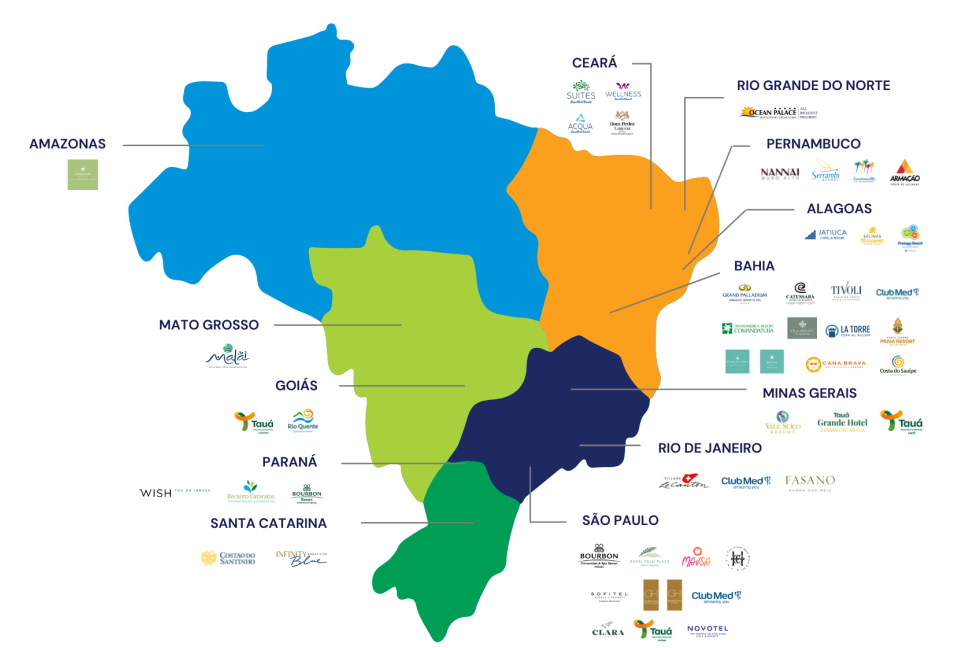
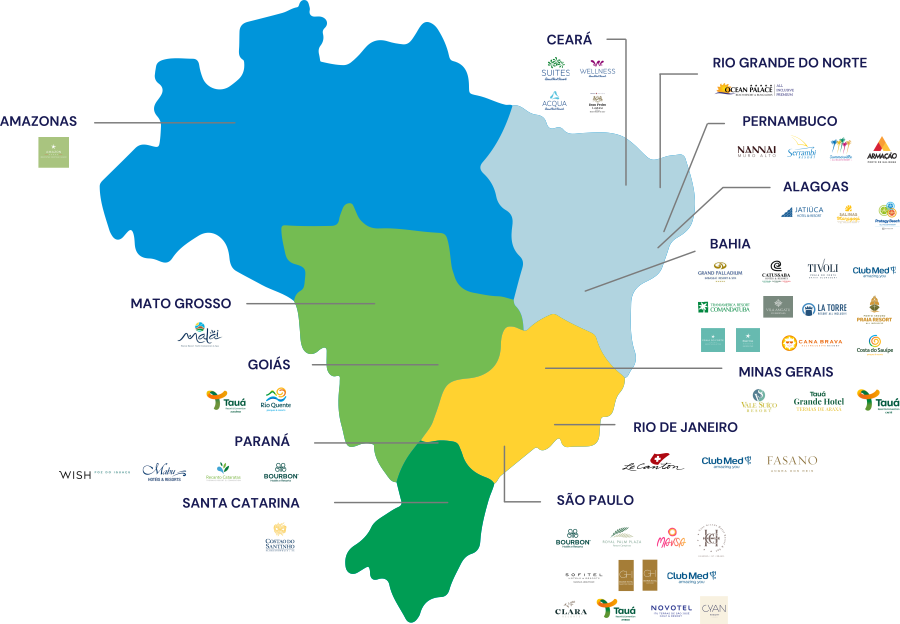
update 2022-08-09

diff --git a/estatisticas-e-estudos.html b/estatisticas-e-estudos.html
@@ -142,8 +142,66 @@
         </section>
         <!-- end: Título -->
 
-        <!-- Associados -->
-        <section id="associados" class="p-t-0">
+        <!-- Destaques -->
+        <section class="p-t-0">
+            <div class="container">
+                <div class="row">
+                    <!-- Índice de Competitividade de Resorts -->
+                    <div class="col-lg-3">
+                        <div class="card">
+                            <img class="card-img-top"
+                                src="images/estatisticas-e-estudos/indice-de-competitividade-de-resorts.jpg"
+                                alt="Capa do Índice de Competitividade de Resorts">
+                            <div class="card-body text-center">
+                                <h4 class="card-title m-b-10">Índice de Competitividade de Resorts</h4>
+                                <a href="#" class="btn btn-primary">Acessar</a>
+                            </div>
+                        </div>
+                    </div>
+                    <!-- end: Índice de Competitividade de Resorts -->
+                    <!-- Hotelaria em Números -->
+                    <div class="col-lg-3">
+                        <div class="card">
+                            <img class="card-img-top" src="images/estatisticas-e-estudos/hotelaria-em-numeros.jpg"
+                                alt="Capa de Hotelaria em Números">
+                            <div class="card-body text-center">
+                                <h4 class="card-title m-b-10">Hotelaria em Números</h4>
+                                <a href="#" class="btn btn-primary">Acessar</a>
+                            </div>
+                        </div>
+                    </div>
+                    <!-- end: Hotelaria em Números -->
+                    <!-- Radar Resorts Brasil -->
+                    <div class="col-lg-3">
+                        <div class="card">
+                            <img class="card-img-top" src="images/estatisticas-e-estudos/radar-resorts-brasil.jpg"
+                                alt="Capa do Radar Resorts Brasil">
+                            <div class="card-body text-center">
+                                <h4 class="card-title m-b-10">Radar Resorts Brasil</h4>
+                                <a href="#" class="btn btn-primary">Acessar</a>
+                            </div>
+                        </div>
+                    </div>
+                    <!-- end: Radar Resorts Brasil -->
+                    <!-- Resorts em Números -->
+                    <div class="col-lg-3">
+                        <div class="card">
+                            <img class="card-img-top" src="images/estatisticas-e-estudos/resorts-em-numeros.jpg"
+                                alt="Capa de Resorts em Números">
+                            <div class="card-body text-center">
+                                <h4 class="card-title m-b-10">Resorts em Números</h4>
+                                <a href="#" class="btn btn-primary">Acessar</a>
+                            </div>
+                        </div>
+                    </div>
+                    <!-- end: Resorts em Números -->
+                </div>
+            </div>
+        </section>
+        <!-- end: Destaques -->
+
+        <!-- Informacoes -->
+        <section id="informacoes" class="p-t-0">
             <div class="container">
                 <div class="row">
                     <div class="col-lg-10 center">
@@ -188,7 +246,6 @@
                                                 colaborar com o desenvolvimento estruturado do setor. O estudo é
                                                 desenvolvido em parceria com o Senac, JLL, STR e a
                                                 ReviewPro.</p>
-                                            <a href="#" class="item-link" target="_blank">Acessar o repositório &gt;</a>
                                         </div>
                                         <div class="tab-pane fade" id="indice" role="tabpanel"
                                             aria-labelledby="indice-tab">
@@ -199,7 +256,6 @@
                                                 avaliar diversos os empreendimentos em que se hospedaram. As
                                                 estatísticas são fornecidas pela ferramenta ReviewPro, que agrupa os
                                                 comentários de usuários feitos em quaisquer sites de avaliação.</p>
-                                            <a href="#" class="item-link" target="_blank">Acessar o repositório &gt;</a>
                                         </div>
                                         <div class="tab-pane fade" id="hotelaria" role="tabpanel"
                                             aria-labelledby="hotelaria-tab">
@@ -209,7 +265,6 @@
                                                 questionários preenchidos hotéis, resorts e flats brasileiros medindo o
                                                 desempenho do mercado hoteleiro ano a ano. A Resorts Brasil é parceira
                                                 desta iniciativa há mais de 10 anos.</p>
-                                            <a href="#" class="item-link" target="_blank">Acessar o repositório &gt;</a>
                                         </div>
                                         <div class="tab-pane fade" id="resorts" role="tabpanel"
                                             aria-labelledby="resorts-tab">
@@ -218,7 +273,6 @@
                                                 desenvolvido pela Resorts Brasil, em parceria com o Senac São Paulo, de
                                                 2012 a 2019. O informativo traz dados de desempenho dos resorts no
                                                 Brasil.</p>
-                                            <a href="#" class="item-link" target="_blank">Acessar o repositório &gt;</a>
                                         </div>
                                     </div>
                                 </div>
@@ -227,7 +281,7 @@
                     </div>
                 </div>
         </section>
-        <!-- end: Associados -->
+        <!-- end: Informacoes -->
 
         <!-- Stats -->
         <section id="stats" class="no-padding">

diff --git a/associados.html b/associados.html
@@ -279,6 +279,9 @@
                                             <li><a href="#" target="_blank">
                                                     <img src="images/associados/novotel-itu.png" alt=""></a>
                                             </li>
+                                            <li><a href="#" target="_blank">
+                                                    <img src="images/associados/cyan-resort.png" alt=""></a>
+                                            </li>
                                         </ul>
                                     </div>
                                 </div>
@@ -352,9 +355,6 @@
                                         <ul class="grid grid-6-columns text-center">
                                             <li><a href="#" target="_blank">
                                                     <img src="images/associados/costao-do-santinho.png" alt=""></a>
-                                            </li>
-                                            <li><a href="#" target="_blank">
-                                                    <img src="images/associados/infinity-blue.png" alt=""></a>
                                             </li>
                                         </ul>
                                     </div>
@@ -510,7 +510,8 @@
                             </div>
                             <!-- end: Nordeste -->
                             <!-- Centro-Oeste -->
-                            <div class="tab-pane fade show" id="norte" role="tabpanel" aria-labelledby="norte-tab">
+                            <div class="tab-pane fade show" id="centro-oeste" role="tabpanel"
+                                aria-labelledby="centro-oeste-tab">
                                 <div id="GO" class="row">
                                     <div class="col-lg-3 text-center text-bottom">
                                         <h4>Goiás</h4>
@@ -573,7 +574,7 @@
                     <h3 class="m-b-0">Quer fazer parte de um grupo seleto de resorts brasileiros?</h3>
                     <p>Faça parte e ajude a transformar o setor. 😍</p>
                     <div>
-                        <a href="associe-se.html" class="btn">Associe-se</a>
+                        <a href="associe-se.html" class="btn btn-lg">Associe-se</a>
                     </div>
                 </div>
             </div>
